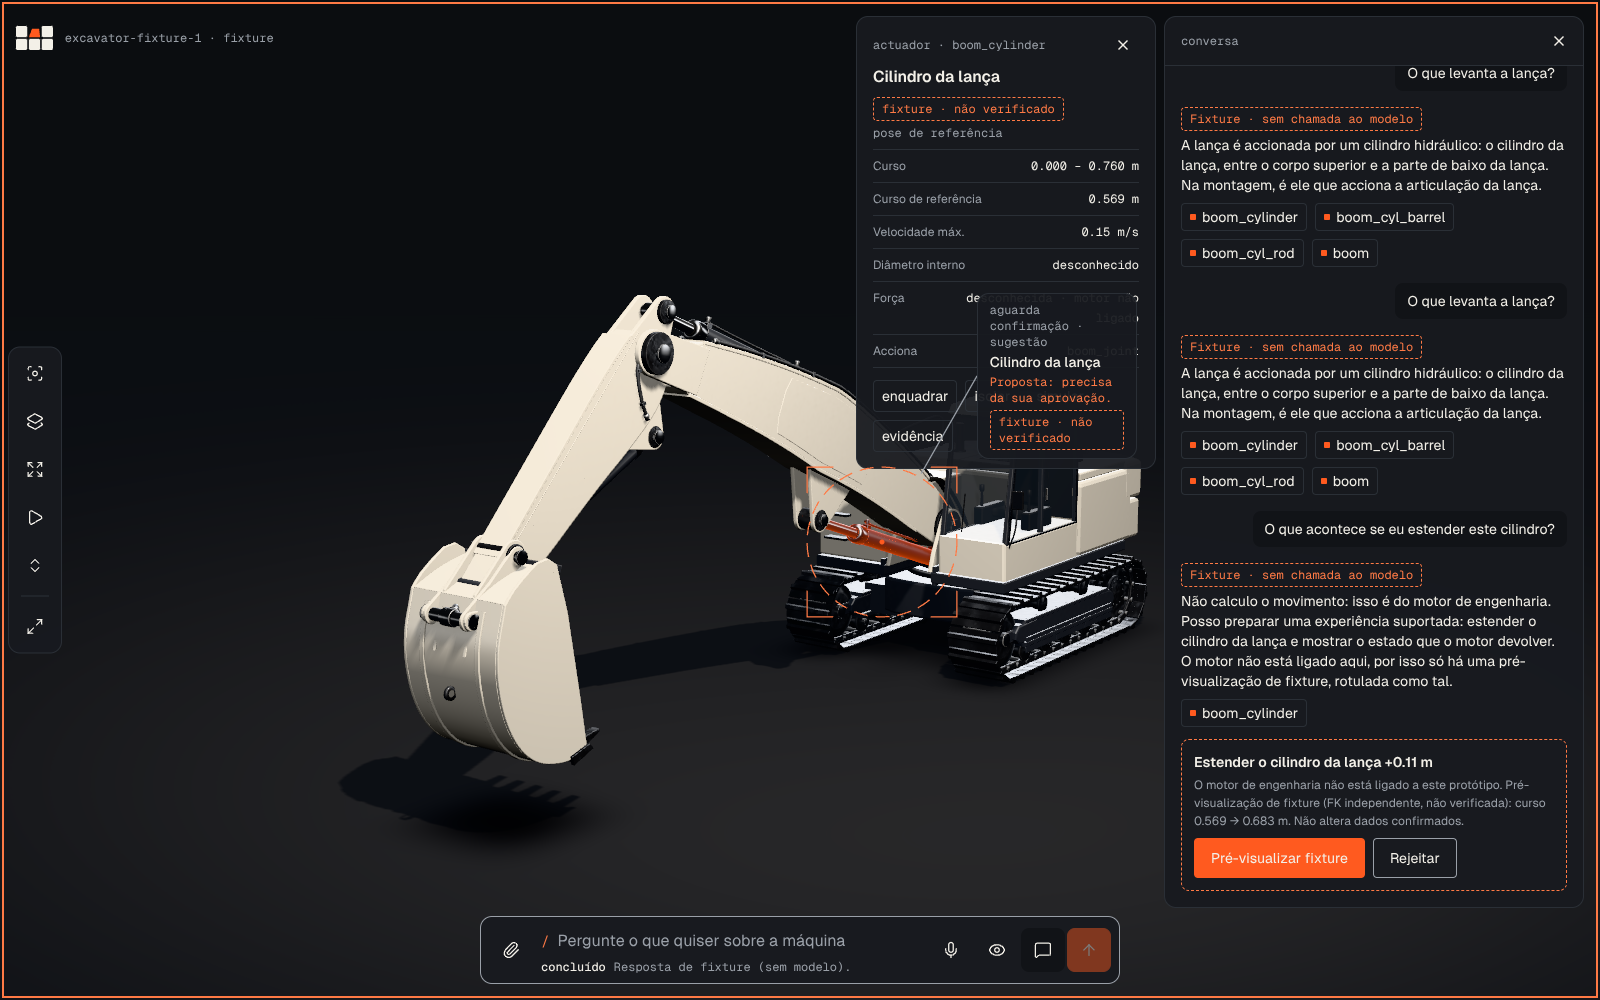
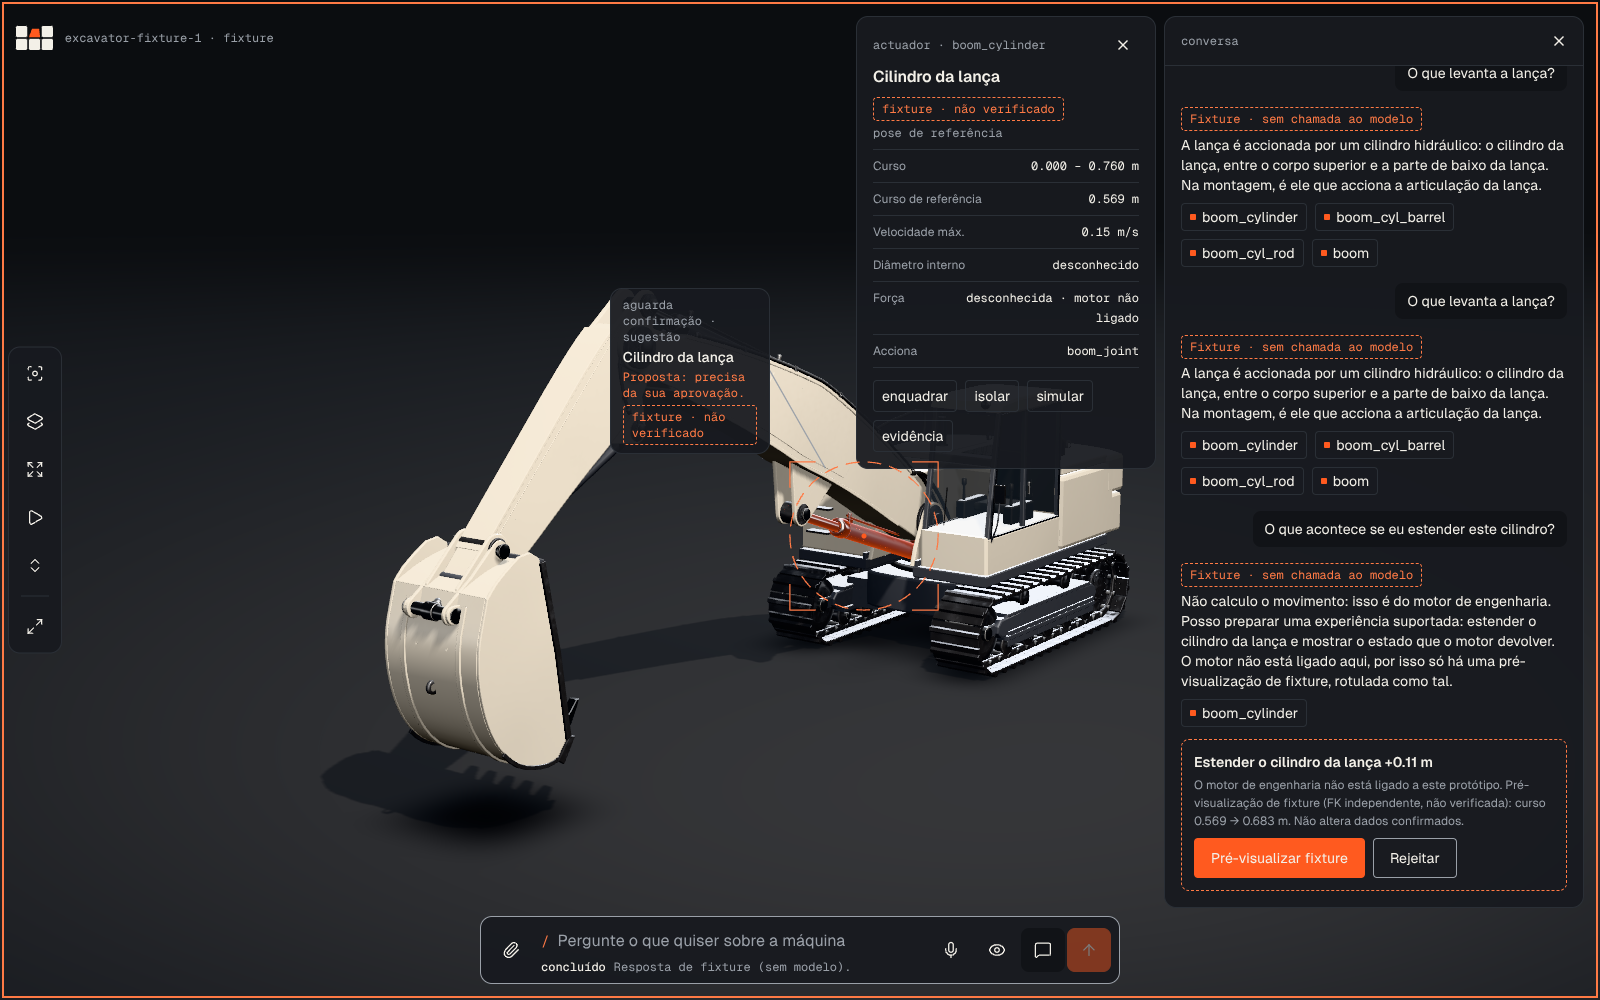
Publish after captures, before/after set and updated browser report
Claude-Session: https://claude.ai/code/session_013wFH9RgyNJtyyYqLBy2n69

Changed region(s): [[0.2188, 0.279, 0.7188, 0.775], [0.6875, 0.31, 0.7188, 0.341]]

diff --git a/reports/living/visual-foundry/README.md b/reports/living/visual-foundry/README.md
@@ -117,6 +117,9 @@ HDRIs ou texturas externas.
 Ids canónicos, renderer, contratos, os três modos, tipografia, tokens e layout da interface ficam iguais. O orçamento de
 texturas subiu de 10 para 14 (quatro mapas de variação de 128²).
 
+Browser: 52/52 (`browser-report.json`) e 14/14 regressões. O grande plano mostra o pino real, a orelha e o olhal do barril,
+mas fica apertado: o canal do convés ocupa metade do quadro, e não há ângulo mais aberto sem atravessar a cabina ou o compartimento.
+
 Avaliação: os rastos e os cilindros já se lêem contra o Void, a caçamba lê-se como caçamba e os dentes vêem-se.
 Continua abaixo do turbofan da Airsup: a estrutura superior ainda é muito em caixa, e as luzes extra aclaram um pouco o
 chão perto da máquina.
